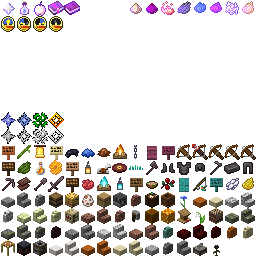
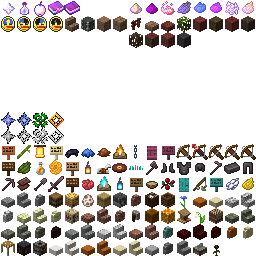
Update to 1.19

Changed region(s): [[0.25, 0.0625, 1.0, 0.1875]]

diff --git a/README.md b/README.md
@@ -4,4 +4,4 @@ Updated [WolfieMario's Text Icon Resourcepack](http://imgur.com/a/oHvbX) to the 
 
 |Items       |Blocks      |
 |------------|------------|
-|Up to 1.19  |Up to 1.18.2|
+|Up to 1.19  |Up to 1.19  |
